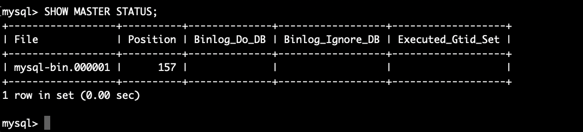
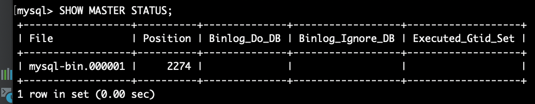
Fix user mysql

Changed region(s): [[0.0, 0.0, 0.9869, 1.0], [0.957, 0.6058, 0.9869, 0.6635]]

diff --git a/lesson17/README.md b/lesson17/README.md
@@ -50,9 +50,9 @@ INSERT INTO orders (client_id, product_id, quantity, order_date) VALUES
 Встановіть унікальний server-id
 Включіть бінарне логування
 Створіть користувацький обліковий запис для реплікації
-CREATE USER 'relpica'@'%' IDENTIFIED BY 'iI2F1e8fIJu4';
-ALTER USER 'relpica'@'%' IDENTIFIED WITH mysql_native_password BY 'iI2F1e8fIJu4';
-GRANT REPLICATION SLAVE ON *.* TO 'relpica'@'%';
+CREATE USER 'replica'@'%' IDENTIFIED BY 'iI2F1e8fIJu4';
+ALTER USER 'replica'@'%' IDENTIFIED WITH mysql_native_password BY 'iI2F1e8fIJu4';
+GRANT REPLICATION SLAVE ON *.* TO 'replica'@'%';
 FLUSH PRIVILEGES;
 ![image2](https://github.com/NataliaKozey/laba/blob/master/lesson17/images/img_1.png)
 #3 Експорт даних з основного сервера:
@@ -71,7 +71,7 @@ mysqldump my_database > my_database.sql
 
 Налаштуйте вторинний сервер для з'єднання з основним сервером і вказівки на бінарний лог
 
-CHANGE MASTER TO MASTER_HOST='10.0.30.97', MASTER_USER='replica', MASTER_PASSWORD='iI2F1e8fIJu4', MASTER_LOG_FILE='mysql-bin.000001', MASTER_LOG_POS=157;
+CHANGE MASTER TO MASTER_HOST='10.0.30.97', MASTER_USER='replica', MASTER_PASSWORD='iI2F1e8fIJu4', MASTER_LOG_FILE='mysql-bin.000001', MASTER_LOG_POS=2274;
 
 #6 Запуск реплікації:
 
@@ -82,7 +82,7 @@ CHANGE MASTER TO MASTER_HOST='10.0.30.97', MASTER_USER='replica', MASTER_PASSWOR
 #7 Перевірка статусу реплікації:
 
 Використовуйте команду SHOW SLAVE STATUS на вторинному сервері для перевірки стану реплікації
-
+![image4](https://github.com/NataliaKozey/laba/blob/master/lesson17/images/img_4.png)
 
 #8 Симуляція збою мастера:
 
